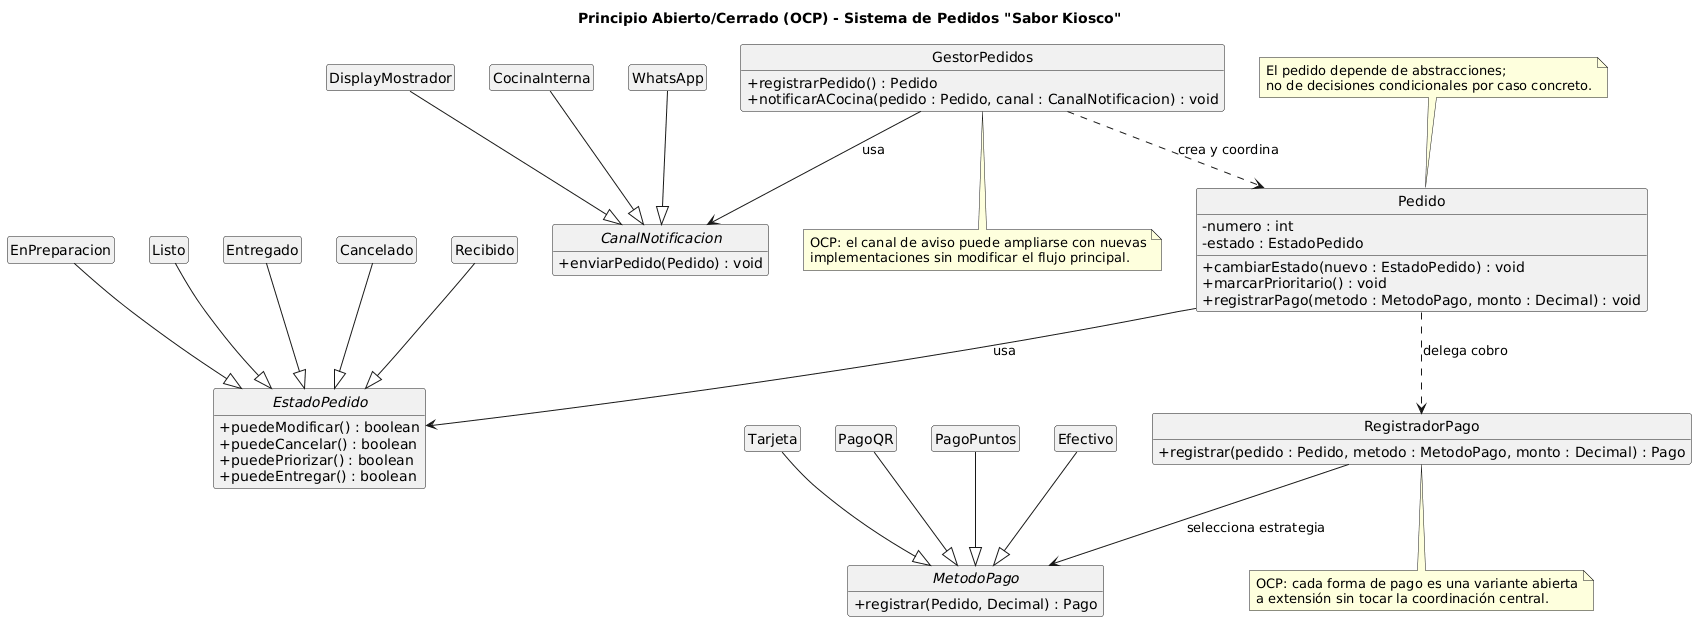
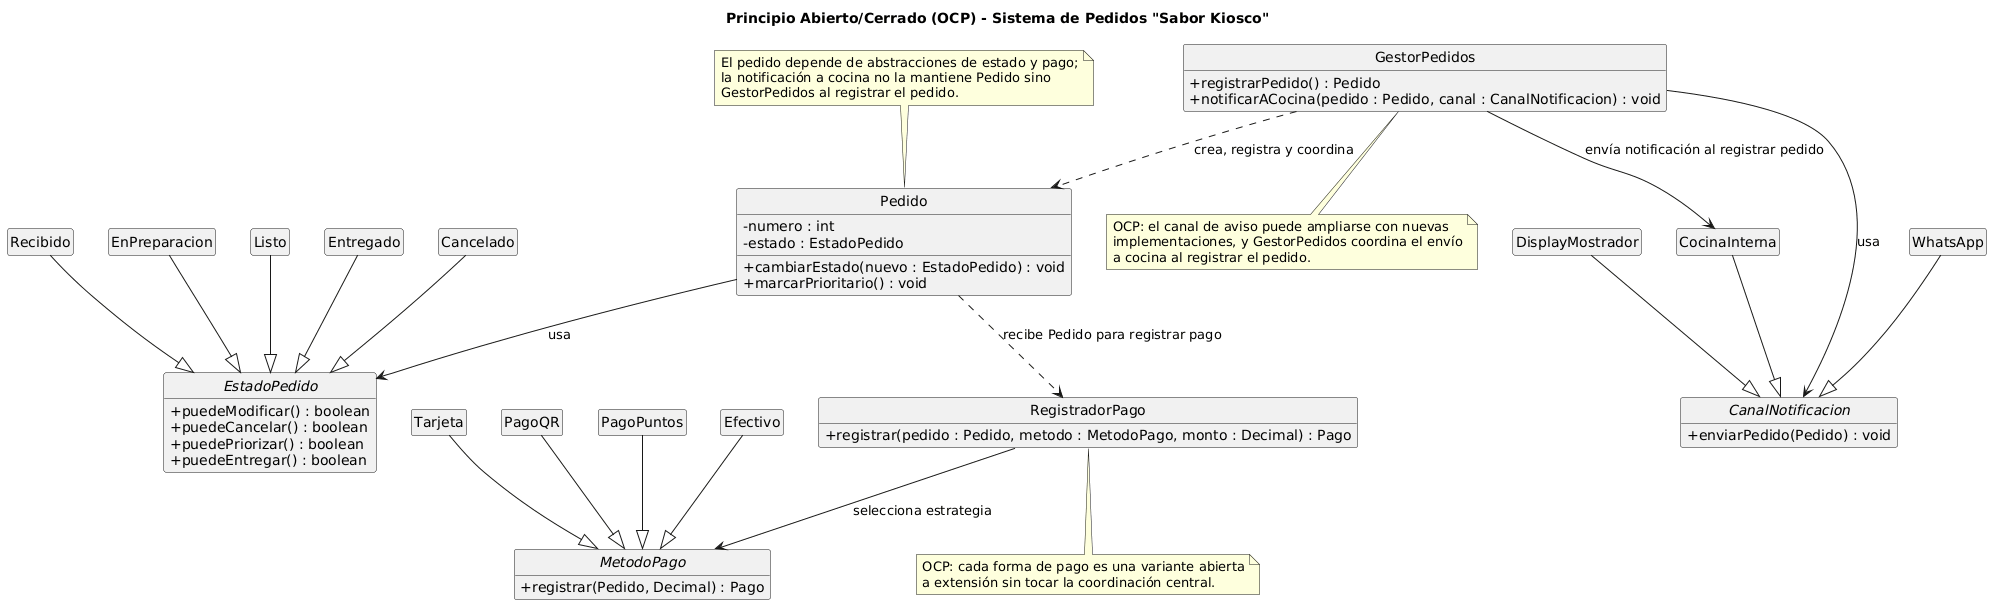
Correccion Hallazgos 1, 2, 3, 4, 5, 6

diff --git a/ia/primer-parcial/especialista-ocp.md b/ia/primer-parcial/especialista-ocp.md
@@ -1,6 +1,8 @@
 # Especialista en Principios de Extensión - OCP
 
-## Prompt base utilizado
+## Herramienta utilizada
+Se utilizó Copilot en modo agente dentro de VS Code
+## Prompt utilizado
 ACTUA COMO UN ESPECIALISTA EN DISEÑO ORIENTADO A OBJETOS Y ARQUITECTURA DE SOFTWARE, EN PRINCIPIO SOLID. LEE LAS consignas.md DE MODO GENERAL PARA TENER UNA IDEA Y DESDE AHÍ CUMPLE LAS SIGUIENTES INSTRUCCIONES: 
 1)	EN EL ARCHIVO anexos/principios-solid/02ocp.md COPIA EL ARCHIVO plantilla.md
 2)	EVALUANDO LA INFORMACION DE anexos.md, diagramas/01-diagrama-clases/01-boceto-inicial-excalidraw y las tarjetas CRC de herramientas-agile/tarjetas-crc como contexto.
@@ -14,21 +16,48 @@ Se consultó la consigna general de la materia y se trabajó con los siguientes 
 - [diagramas/01-diagrama-clases/01-boceto-inicial-corregido.excalidraw](../../diagramas/01-diagrama-clases/01-boceto-inicial-corregido.excalidraw)
 - [herramientas-agile/tarjetas-crc/tarjetas-crc.md](../../herramientas-agile/tarjetas-crc/tarjetas-crc.md)
 
-Prompt resumido:
+## Prompt utilizado resumido:
 
 > Analiza el sistema de pedidos del kiosco y aplica el Principio Abierto/Cerrado. Identifica clases con lógica condicional que puedan modelarse mediante jerarquías o polimorfismo, proponiendo extensiones sin modificar el código existente. Considera el ciclo de vida del pedido, las formas de pago y la notificación a cocina. Luego, documenta la propuesta con una explicación técnica y un diagrama UML que muestre extensibilidad correcta y jerarquía apropiada.
 
-## Ajustes realizados al resultado
-
-Se revisó críticamente la propuesta inicial y se ajustó para que encaje con el modelo del dominio del proyecto:
-
-- Se priorizaron los puntos de extensión más relevantes: `EstadoPedido`, `MetodoPago` y `CanalNotificacion`.
-- Se evitó una solución demasiado abstracta que no reflejara el negocio del kiosco.
-- Se mantuvo foco en la idea de “extensión sin modificación” de la lógica existente, en lugar de crear jerarquías artificiales.
-- Se formalizó la explicación con ejemplos concretos sobre pedido, pago y cocina, alineados con los requisitos funcionales y no funcionales del sistema.
-
-## Resultado final documentado
+## Archivos de contexto referenciados
 
 - Documento OCP: [anexos/principios-solid/02-ocp.md](../../anexos/principios-solid/02-ocp.md)
 - Diagrama UML: [diagramas/01-diagrama-clases/01-solid-02-ocp.puml](../../diagramas/01-diagrama-clases/01-solid-02-ocp.puml)
 - Exportación visual: [diagramas/01-diagrama-clases/01-solid-02-ocp.png](../../diagramas/01-diagrama-clases/01-solid-02-ocp.png)
+
+## Output obtenido
+
+El agente identificó tres puntos de variación del dominio que pueden resolverse con herencia y polimorfismo sin tocar la lógica ya validada:
+
+| Punto de variación | Problema del diseño inicial | Propuesta OCP |
+| :--- | :--- | :--- |
+| `EstadoPedido` | El pedido tiene reglas distintas según su estado: modificar, cancelar, priorizar o entregar. Si esas decisiones están embebidas en condicionales, cada nuevo estado exige tocar la misma lógica central. | Crear una jerarquía `EstadoPedido` con subclases `Recibido`, `EnPreparacion`, `Listo`, `Entregado` y `Cancelado`, cada una con su propia respuesta a la operación común. |
+| `MetodoPago` | El registro del cobro puede cambiar con efectivo, tarjeta, QR o puntos, y la lógica de pago queda acoplada a la coordinación principal. | Definir la abstracción `MetodoPago` y especializarla en estrategias concretas, sin cambiar la coordinación de `RegistradorPago`. |
+| `CanalNotificacion` | El RF5 exige notificar a cocina y puede variar el medio de comunicación (interno, WhatsApp, display, etc.). | Crear `CanalNotificacion` y dejar que `GestorPedidos` elija el canal al registrar el pedido, sin modificar la lógica principal. |
+
+También generó el diagrama de clases [01-solid-02-ocp.puml](../../diagramas/01-diagrama-clases/01-solid-02-ocp.puml), su imagen [01-solid-02-ocp.png](../../diagramas/01-diagrama-clases/01-solid-02-ocp.png) y el borrador de [02-ocp.md](../../anexos/principios-solid/02-ocp.md).
+
+Fragmento representativo de la respuesta:
+
+> `Pedido` depende de abstracciones de estado y pago (`EstadoPedido`, `MetodoPago`), mientras que la notificación a cocina queda coordinada por `GestorPedidos` a través de `CanalNotificacion`. Esto coincide con el diagrama: `Pedido` no usa `CanalNotificacion` directamente, y el envío se realiza desde el gestor al registrar el pedido.
+
+> `RegistradorPago` ya no necesita conocer todos los casos concretos de cobro. Depende de `MetodoPago` y cada estrategia concreta implementa una forma de registro distinta. Esto permite ampliar con `PagoTransferencia` o `PagoCuentaCorriente` sin tocar la clase que coordina la operación.
+
+## Ajustes realizados al resultado
+
+Se contrastó la propuesta del agente con el boceto de clases, las tarjetas CRC, el diagrama OCP y el RF5. Los puntos corregidos fueron los siguientes:
+
+- **Responsabilidad de la notificación a cocina.** La propuesta original podía sugerir que `Pedido` o `CanalNotificacion` eran quienes emitían el aviso. Se dejó explícito que la coordinación la realiza `GestorPedidos`, y que la relación con `CocinaInterna` ocurre al registrar el pedido.
+- **Duplicación del registro de pago.** El diagrama no podía volver a introducir `registrarPago()` en `Pedido` porque ese método ya había sido quitado en el SRP como duplicado con `RegistradorPago`. Se mantuvo el diseño consistente con la firma `registrar(pedido : Pedido, metodo : MetodoPago, monto : Decimal) : Pago`.
+- **Dependencia de `Pedido` con `RegistradorPago`.** La relación se mantuvo como una dependencia explícita del pedido hacia el registrador, sin cambiar la estructura del diagrama, pero explicitando que `RegistradorPago` recibe el `Pedido` como parámetro cuando procesa el cobro.
+- **Coherencia con el OCP.** Se reforzó que la variación del negocio queda encapsulada en jerarquías de extensión (`EstadoPedido`, `MetodoPago`, `CanalNotificacion`), mientras el cliente (`Pedido`, `GestorPedidos`, `RegistradorPago`) conserva la lógica estable y reutilizable.
+- **Alineación con el dominio.** El análisis se centró en los requisitos del kiosco: ciclo de vida del pedido, tipos de pago y avisos a cocina. No se introdujeron nuevas responsabilidades que no estuvieran sustentadas por el boceto ni por las tarjetas CRC.
+
+Con estos ajustes, la propuesta OCP queda coherente con el diagrama y con la arquitectura ya validada para el resto de los principios SOLID.
+
+
+
+
+
+
